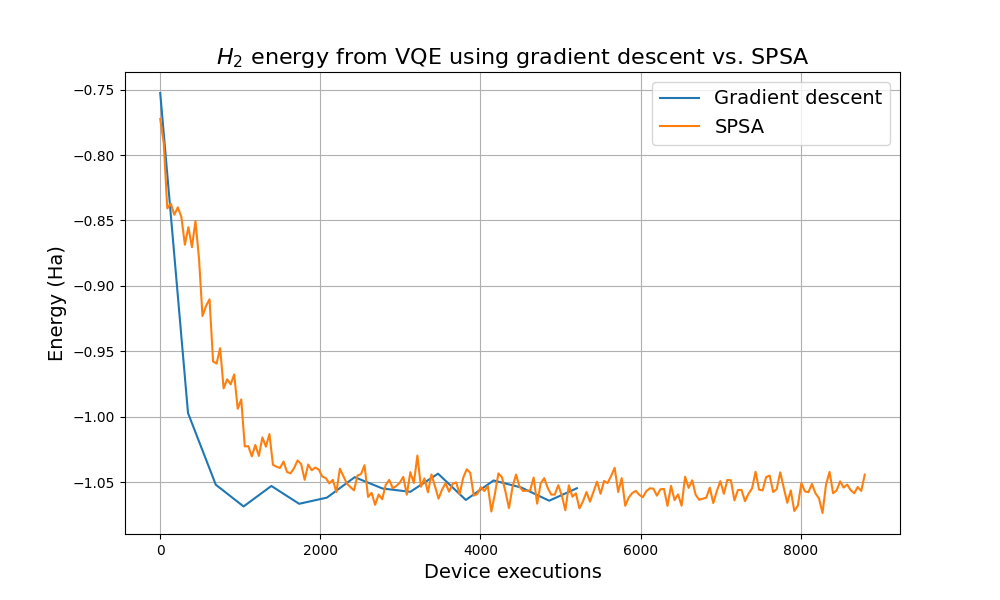
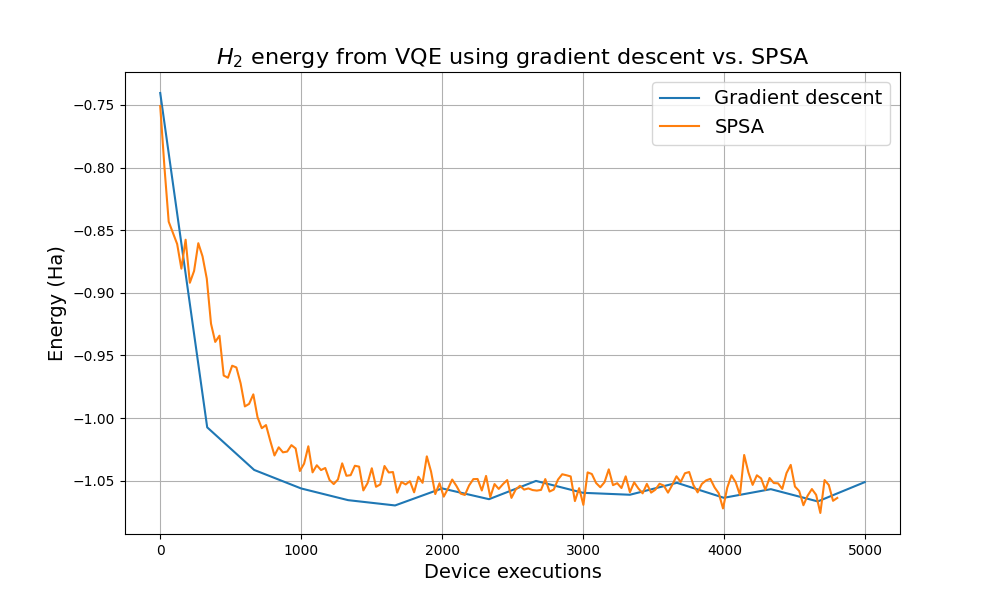
review and tweaking

diff --git a/demonstrations/spsa.py b/demonstrations/spsa.py
@@ -13,7 +13,7 @@ Optimization using SPSA
    tutorial_vqe A brief overview of VQE
    tutorial_vqe_qng Accelerating VQEs with quantum natural gradient
 
-*Author: Antal Szava — Posted: 19 March 2021. Last updated: xx February 2023.*
+*Author: Antal Szava & David Wierichs — Posted: 19 March 2021. Last updated: xx February 2023.*
 
 In this tutorial, we investigate using a stochastic optimizer called
 the Simultaneous Perturbation Stochastic Approximation (SPSA) algorithm to optimize quantum
@@ -173,7 +173,7 @@ device = qml.device("qiskit.aer", wires=num_wires, shots=1000)
 
 ansatz = qml.StronglyEntanglingLayers
 
-all_pauliz_tensor_prod = qml.operation.Tensor(*[qml.PauliZ(i) for i in range(num_wires)])
+all_pauliz_tensor_prod = qml.prod(*[qml.PauliZ(i) for i in range(num_wires)])
 
 def circuit(param):
     ansatz(param, wires=list(range(num_wires)))
@@ -193,37 +193,39 @@ init_param = np.random.normal(scale=0.1, size=param_shape, requires_grad=True)
 # number of device executions along the way. The latter will be an interesting
 # quantity to evaluate the optimization cost on hardware!
 
-def run_optimizer(opt, fun, init_param, num_steps):
+def run_optimizer(optimizer, cost_function, init_param, num_steps, interval):
     # Copy the initial parameters to make sure they are never overwritten
     param = init_param.copy()
 
     # Obtain the device used in the cost function
-    dev = fun.device
-    
+    dev = cost_function.device
+
     # Initialize the memory for cost values and device executions during the optimization
     cost_history = []
-    exec_history = []
+    exec_history = [0]
+    # Monitor the initial cost value
+    cost_history.append(cost_function(param))
+    execs_per_cost_eval = dev.num_executions
 
-    print(f"\nRunning the {opt.__class__.__name__} optimizer for {num_steps} iterations.")
+    print(f"\nRunning the {optimizer.__class__.__name__} optimizer for {num_steps} iterations.")
     for step in range(num_steps):
-        # Monitor the device executions, deducting the cost evaluations for monitoring
-        exec_history.append(dev.num_executions - step)
-        # Monitor the cost value
-        cost_history.append(fun(param))
         # Perform an update step
-        param = opt.step(fun, param)
+        param = optimizer.step(cost_function, param)
+
+        # Monitor the device executions, deducting the executions for cost monitoring
+        exec_history.append(dev.num_executions - (step+1) * execs_per_cost_eval)
+
+        # Monitor the cost value
+        cost_history.append(cost_function(param))
 
         # Print out the status of the optimization
-        if step % int(np.ceil(num_steps/20)) == 0:
+        if step % interval == 0:
             print(
                 f"Iteration = {step:3d}, "
-                f"Device executions = {exec_history[-1]:4d}, "
-                f"Cost = {cost_history[-1]}"
+                f"Device executions = {exec_history[step]:4d}, "
+                f"Cost = {cost_history[step]}"
             )
 
-    # Monitor the last cost value and execution number
-    exec_history.append(dev.num_executions - num_steps)
-    cost_history.append(fun(param))
     print(f"Iteration = {num_steps:3d}, Device executions = {exec_history[-1]:4d}, Cost = {cost_history[-1]}")
 
     return cost_history, exec_history
@@ -259,7 +261,7 @@ def run_optimizer(opt, fun, init_param, num_steps):
 
 num_steps_spsa = 200
 opt = qml.SPSAOptimizer(maxiter=num_steps_spsa, c=0.15, a=0.2)
-cost_history_spsa, exec_history_spsa = run_optimizer(opt, cost_function, init_param, num_steps_spsa)
+cost_history_spsa, exec_history_spsa = run_optimizer(opt, cost_function, init_param, num_steps_spsa, 20)
 
 ##############################################################################
 # .. rst-class:: sphx-glr-script-out
@@ -303,7 +305,7 @@ cost_function = qml.QNode(circuit, device)
 
 num_steps_grad = 15
 opt = qml.GradientDescentOptimizer(stepsize=0.3)
-cost_history_grad, exec_history_grad = run_optimizer(opt, cost_function, init_param, num_steps_grad)
+cost_history_grad, exec_history_grad = run_optimizer(opt, cost_function, init_param, num_steps_grad, 3)
 
 ##############################################################################
 # .. rst-class:: sphx-glr-script-out
@@ -349,7 +351,9 @@ plt.grid()
 
 plt.title("Gradient descent vs. SPSA for simple optimization", fontsize=16)
 plt.legend(fontsize=14)
-plt.show()
+#plt.show()
+plt.savefig("demonstrations/spsa/first_comparison.png", transparent=True)
+
 
 ##############################################################################
 #
@@ -363,8 +367,8 @@ plt.show()
 # Let's take a deeper dive to see how much better it actually is by computing
 # the ratio of required device executions to reach an absolute accuracy of 0.01.
 #
-grad_execs_to_prec = exec_history_grad[np.where(np.array(cost_history_grad) < 0.800)[0][0]]
-spsa_execs_to_prec = exec_history_spsa[np.where(np.array(cost_history_spsa) < 0.800)[0][0]]
+grad_execs_to_prec = exec_history_grad[np.where(np.array(cost_history_grad) < -0.99)[0][0]]
+spsa_execs_to_prec = exec_history_spsa[np.where(np.array(cost_history_spsa) < -0.99)[0][0]]
 print(f"Device execution ratio: {np.round(grad_execs_to_prec/spsa_execs_to_prec, 3)}.")
 
 ##############################################################################
@@ -451,7 +455,7 @@ init_param = np.random.normal(0, np.pi, (num_qubits, 3), requires_grad=True)
 opt = qml.GradientDescentOptimizer(stepsize=2.2)
 
 # Run the optimization
-cost_history_grad, exec_history_grad = run_optimizer(opt, cost_function, init_param, num_steps_grad)
+cost_history_grad, exec_history_grad = run_optimizer(opt, cost_function, init_param, num_steps_grad, 3)
 
 final_energy = cost_history_grad[-1]
 print(f"\nFinal estimated value of the ground state energy = {final_energy:.8f} Ha")
@@ -503,7 +507,8 @@ plt.legend(fontsize=14)
 
 plt.title("H2 energy from VQE with gradient descent", fontsize=16)
 
-plt.show()
+#plt.show()
+plt.savefig("demonstrations/spsa/h2_vqe_noisy_shots_ibm.png", transparent=True)
 
 ##############################################################################
 #
@@ -520,17 +525,19 @@ plt.show()
 #
 # Now let's perform the same experiment using SPSA for the VQE optimization.
 # SPSA should use only 2 device executions per term in the expectation value.
-# Since there are 15 terms and we chose 200 iterations, we expect 6000 total device
+# Since there are 15 terms and we choose 160 iterations with two evaluations for
+# each gradient estimate, we expect 4800 total device
 # executions. Again we create a new device and cost function in order to reset
 # the number of executions.
 
 noisy_device = qml.device("qiskit.aer", wires=num_qubits, shots=1000, noise_model=noise_model)
 cost_function = qml.QNode(circuit, noisy_device)
 
+num_steps_spsa = 160
 opt = qml.SPSAOptimizer(maxiter=num_steps_spsa, c=0.3, a=1.5)
 
 # Run the SPSA algorithm
-cost_history_spsa, exec_history_spsa = run_optimizer(opt, cost_function, init_param, num_steps_spsa)
+cost_history_spsa, exec_history_spsa = run_optimizer(opt, cost_function, init_param, num_steps_spsa, 20)
 final_energy = cost_history_spsa[-1]
 
 print(f"\nFinal estimated value of the ground state energy = {final_energy:.8f} Ha")
@@ -581,7 +588,8 @@ plt.ylabel("Energy (Ha)", fontsize=14)
 plt.grid()
 
 plt.legend(fontsize=14)
-plt.show()
+#plt.show()
+plt.savefig("demonstrations/spsa/h2_vqe_noisy_spsa.png", transparent=True)
 
 ##############################################################################
 #
@@ -649,3 +657,4 @@ plt.show()
 # About the author
 # ----------------
 # .. include:: ../_static/authors/antal_szava.txt
+# .. include:: ../_static/authors/david_wierichs.txt
